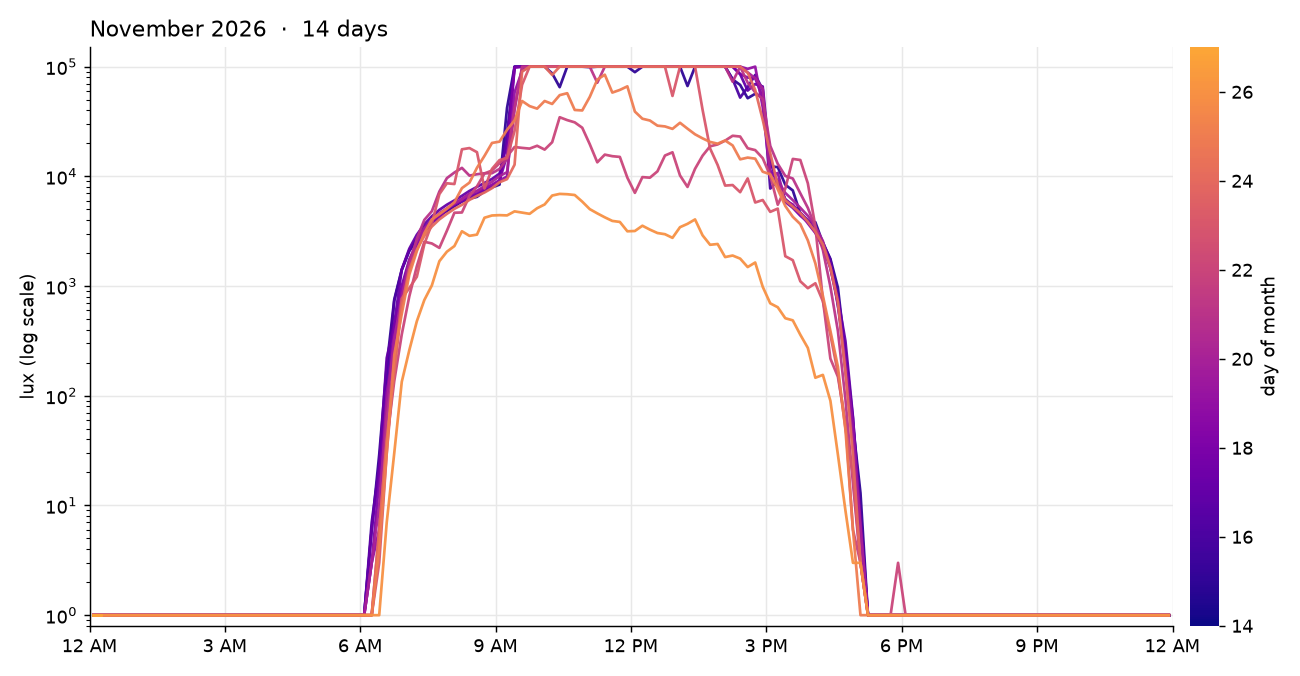
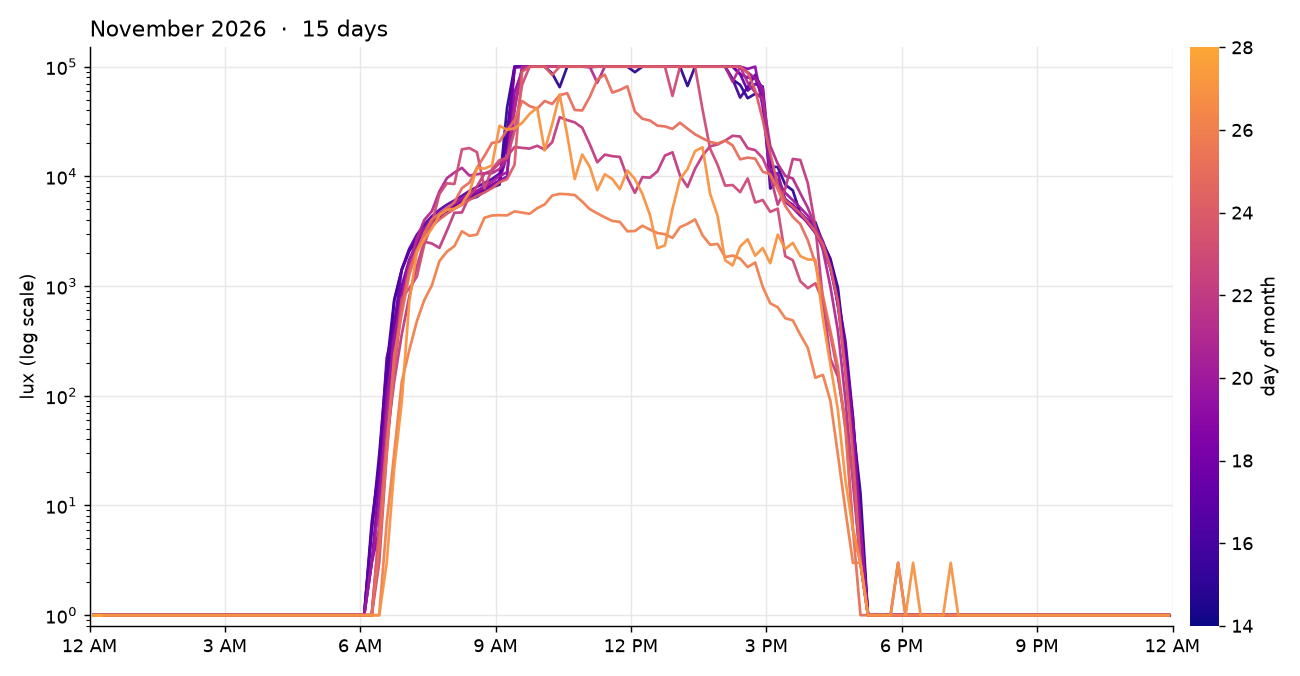
Daily update 2026-11-28

diff --git a/index.html b/index.html
@@ -13,10 +13,10 @@ img{width:100%;height:auto;display:block;border-radius:6px;background:#fff}
 footer{color:var(--muted);font-size:13px}
 </style></head><body><main>
 <h1>Home</h1>
-<p class="sub">Updated daily; last update Nov 27, 2026 12:20 AM.</p>
-<section><h2>Piano humidity</h2><img src="piano-humidity.png?v=202611270020" alt="Humidity at the piano since the sensor was installed, with the 40 to 45 percent target band"></section>
+<p class="sub">Updated daily; last update Nov 28, 2026 12:20 AM.</p>
+<section><h2>Piano humidity</h2><img src="piano-humidity.png?v=202611280020" alt="Humidity at the piano since the sensor was installed, with the 40 to 45 percent target band"></section>
 <h1>Outdoor light</h1>
 <p class="sub">Light level outside, one line per day, each month on its own chart.</p>
-<section><h2>November 2026</h2><img src="2026-11.png?v=20261127" alt="Outdoor light in November 2026, one line per day"></section>
+<section><h2>November 2026</h2><img src="2026-11.png?v=20261128" alt="Outdoor light in November 2026, one line per day"></section>
 <footer>Humidity: a sensor at the piano, shown as the 30-minute median. Light: measured by an outdoor light sensor, every few minutes, shown as the 10-minute median. The scale is logarithmic: each gridline is ten times brighter than the one below.</footer>
 </main></body></html>
